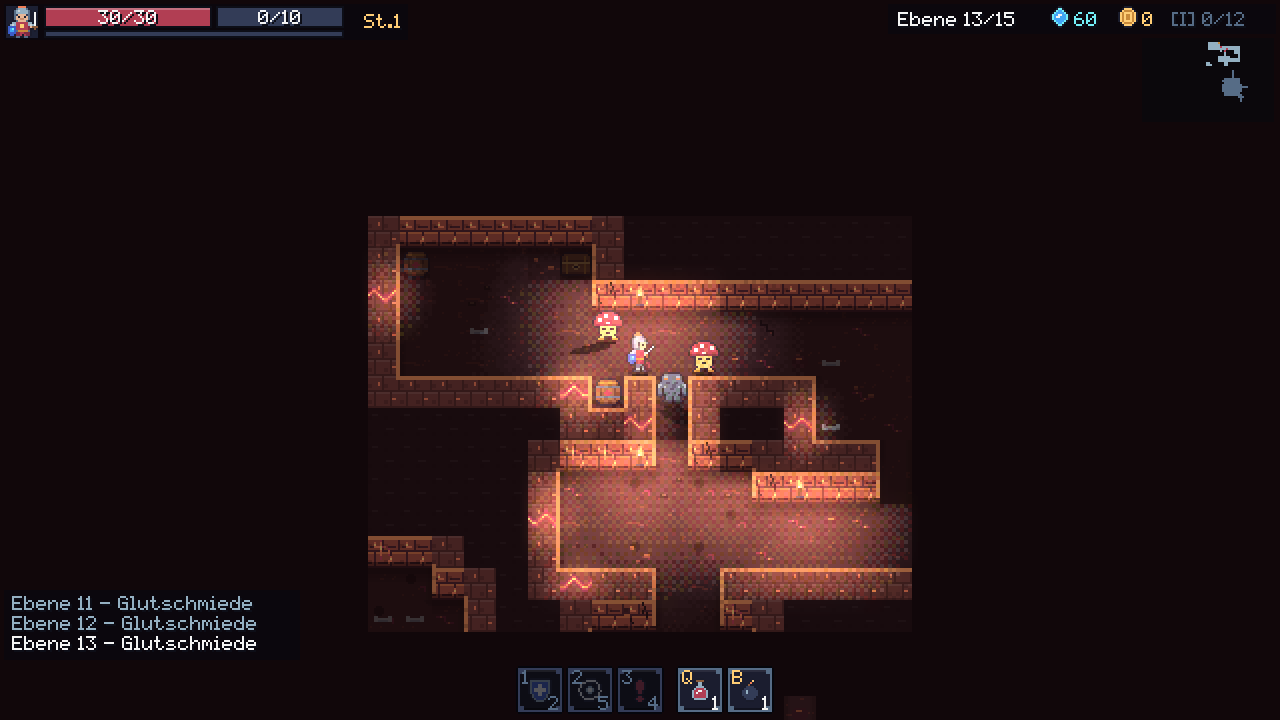
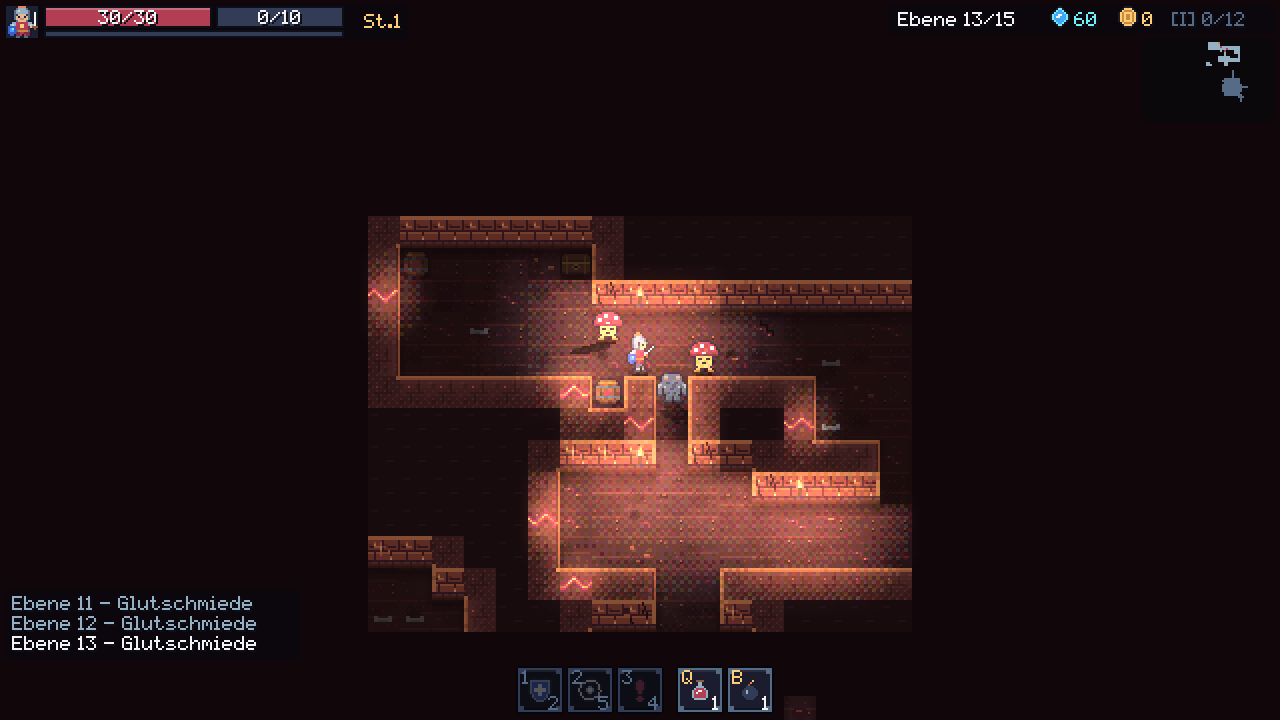
Texturen: Bodenmuster über 2×2 Felder, Mauerkronen nach Nachbarn, Sockel, weiche Übergänge
- src/render/tiles.ts: Boden je Biom als 32×32-Muster (Gruft Steinplatten, Höhle
  unebener Fels mit Kieseln, Schmiede große Eisenplatten mit Nieten, Ruß, Rost),
  dazu eine weiche Helligkeitswelle über 4×4 Felder
- Mauerkrone ohne Ziegelgitter: Glanzkante nur zu offenen Seiten, zur Mitte dunkler;
  Seitenwände lesen sich nicht mehr wie Frontmauerwerk
- Wandfront mit Sockel (Fuge, dunkle Sockelsteine)
- Eis, Brandfläche und Moosgrund unter Gras laufen gerastert in den Boden aus

Claude-Session: https://claude.ai/code/session_01TMNu2fsQ35aYg53JpeGmq3

diff --git a/src/render/tiles.ts b/src/render/tiles.ts
@@ -1,0 +1,176 @@
+// Phase 3: Bodenmuster über 2×2 Felder, Mauerkronen nach Nachbarmuster, Sockel der Wandfront,
+// gerasterte Übergänge (Gras, Brandfläche, Eis). Alles im Code gezeichnet, nur Palettenfarben.
+const TS = 16;
+const mk = (w: number, h: number): [HTMLCanvasElement, CanvasRenderingContext2D] => {
+  const c = document.createElement('canvas'); c.width = w; c.height = h; return [c, c.getContext('2d')!];
+};
+export interface BiomeCols { floor: string; speck: string; brick: string; hi: string; mortar: string; top: string; cap: string; capHi: string; g1: string; g2: string; }
+
+const BAYER = [0, 8, 2, 10, 12, 4, 14, 6, 3, 11, 1, 9, 15, 7, 13, 5].map(v => (v + 0.5) / 16);
+const px = (g: CanvasRenderingContext2D, col: string, x: number, y: number, w = 1, h = 1) => { g.fillStyle = col; g.fillRect(x, y, w, h); };
+
+// ---- Boden: 32×32-Muster, in vier Felder geschnitten ----
+// Rückgabe: je Spielart vier Viertel [oben-links, oben-rechts, unten-links, unten-rechts]
+export function floorMacro(b: BiomeCols, bi: number, rnd: () => number): HTMLCanvasElement[][] {
+  const out: HTMLCanvasElement[][] = [];
+  for (let v = 0; v < 3; v++) {
+    const [c, g] = mk(32, 32);
+    px(g, b.floor, 0, 0, 32, 32);
+    if (bi === 0) gruftFloor(g, b, v, rnd);
+    else if (bi === 1) caveFloor(g, b, rnd);
+    else forgeFloor(g, b, v, rnd);
+    const parts: HTMLCanvasElement[] = [];
+    for (const [qx, qy] of [[0, 0], [16, 0], [0, 16], [16, 16]]) { const [q, qg] = mk(TS, TS); qg.drawImage(c, -qx, -qy); parts.push(q); }
+    out.push(parts);
+  }
+  return out;
+}
+
+// Gruft: Steinplatten unterschiedlicher Größe mit Fugen, leicht verschieden getönt
+const SLABS = [
+  [[0, 0, 12, 10], [12, 0, 20, 10], [0, 10, 20, 12], [20, 10, 12, 12], [0, 22, 10, 10], [10, 22, 22, 10]],
+  [[0, 0, 16, 16], [16, 0, 16, 8], [16, 8, 16, 8], [0, 16, 8, 16], [8, 16, 24, 16]],
+  [[0, 0, 10, 14], [10, 0, 22, 6], [10, 6, 12, 8], [22, 6, 10, 8], [0, 14, 16, 18], [16, 14, 16, 18]],
+];
+function gruftFloor(g: CanvasRenderingContext2D, b: BiomeCols, v: number, rnd: () => number) {
+  for (const [x, y, w, h] of SLABS[v]) {
+    const t = rnd();
+    g.fillStyle = t < 0.33 ? 'rgba(0,0,0,0.10)' : t < 0.66 ? 'rgba(255,255,255,0.03)' : 'rgba(0,0,0,0.03)';
+    g.fillRect(x, y, w, h);
+    px(g, b.speck, x, y, w - 1, 1); // Glanzkante oben
+    for (let k = 0; k < (w * h) / 40; k++) px(g, b.speck, x + 1 + ((rnd() * (w - 3)) | 0), y + 2 + ((rnd() * (h - 4)) | 0));
+    px(g, b.mortar, x + w - 1, y, 1, h); px(g, b.mortar, x, y + h - 1, w, 1); // Fugen rechts und unten
+    if (rnd() < 0.3) { const cx = x + 2 + ((rnd() * (w - 5)) | 0), cy = y + 2 + ((rnd() * (h - 5)) | 0); px(g, b.mortar, cx, cy, 2, 1); px(g, b.mortar, cx + 1, cy + 1, 1, 2); }
+  }
+}
+
+// Höhle: unebener Fels – weiche Flecken aus Wertrauschen, Kiesel, feine Risse
+function caveFloor(g: CanvasRenderingContext2D, b: BiomeCols, rnd: () => number) {
+  const N = 5, grid = Array.from({ length: N * N }, () => rnd());
+  const at = (i: number, j: number) => grid[(j % (N - 1)) * N + (i % (N - 1))]; // nahtlos kachelbar
+  for (let y = 0; y < 32; y++) for (let x = 0; x < 32; x++) {
+    const fx = (x / 32) * (N - 1), fy = (y / 32) * (N - 1), i = Math.floor(fx), j = Math.floor(fy), u = fx - i, w = fy - j;
+    const n = at(i, j) * (1 - u) * (1 - w) + at(i + 1, j) * u * (1 - w) + at(i, j + 1) * (1 - u) * w + at(i + 1, j + 1) * u * w;
+    const d = n + (BAYER[(y & 3) * 4 + (x & 3)] - 0.5) * 0.2;
+    if (d < 0.3) px(g, b.mortar, x, y); else if (d > 0.72) px(g, b.speck, x, y);
+  }
+  for (let k = 0; k < 6; k++) { const x = (rnd() * 30) | 0, y = (rnd() * 30) | 0; px(g, b.brick, x, y, 2, 1); px(g, b.hi, x, y); px(g, b.mortar, x, y + 1, 2, 1); }
+  for (let k = 0; k < 1; k++) { let x = (rnd() * 28) | 0, y = (rnd() * 28) | 0; for (let s = 0; s < 5; s++) { px(g, b.top, x, y); x += rnd() < 0.5 ? 1 : 0; y += 1; } }
+}
+
+// Schmiede: große Eisen- und Steinplatten (Grundrisse wie in der Gruft), Nieten nur an großen Platten, Ruß und Rost
+function forgeFloor(g: CanvasRenderingContext2D, b: BiomeCols, v: number, rnd: () => number) {
+  for (const [x, y, w, h] of SLABS[(v + 1) % SLABS.length]) {
+    if (rnd() < 0.45) { g.fillStyle = 'rgba(0,0,0,0.10)'; g.fillRect(x, y, w, h); }
+    px(g, b.speck, x, y, w - 1, 1);
+    px(g, b.mortar, x + w - 1, y, 1, h); px(g, b.mortar, x, y + h - 1, w, 1);
+    if (w >= 12 && h >= 10 && rnd() < 0.6) for (const [rx, ry] of [[2, 2], [w - 4, 2], [2, h - 4], [w - 4, h - 4]]) { px(g, b.hi, x + rx, y + ry); px(g, '#1c0f14', x + rx, y + ry + 1); }
+    for (let k = 0; k < (w * h) / 60; k++) px(g, '#7d2b45', x + 1 + ((rnd() * (w - 3)) | 0), y + 2 + ((rnd() * (h - 4)) | 0));
+  }
+  // Rußfleck über die Plattengrenzen hinweg
+  const cx = 6 + ((rnd() * 20) | 0), cy = 6 + ((rnd() * 20) | 0);
+  for (let y = -5; y <= 5; y++) for (let x = -6; x <= 6; x++) {
+    const d = (x * x) / 36 + (y * y) / 25;
+    if (d < 1 && BAYER[((cy + y) & 3) * 4 + ((cx + x) & 3)] > d * 0.9) { g.fillStyle = 'rgba(28,15,20,0.5)'; g.fillRect((cx + x + 32) % 32, (cy + y + 32) % 32, 1, 1); }
+  }
+}
+
+// Großflächige Helligkeitswelle über den Boden: Wert in [-1, 1], weich über 4×4 Felder
+const h2 = (x: number, y: number) => (((Math.imul(x, 374761393) ^ Math.imul(y, 668265263)) >>> 0) % 1000) / 500 - 1;
+export function floorTint(x: number, y: number): number {
+  const fx = x / 4, fy = y / 4, i = Math.floor(fx), j = Math.floor(fy), u = fx - i, v = fy - j;
+  const s = (t: number) => t * t * (3 - 2 * t), su = s(u), sv = s(v);
+  return (h2(i, j) * (1 - su) + h2(i + 1, j) * su) * (1 - sv) + (h2(i, j + 1) * (1 - su) + h2(i + 1, j + 1) * su) * sv;
+}
+
+// ---- Mauerkrone nach offenen Seiten (Bit 1 oben, 2 links, 4 rechts) ----
+// Kante mit Glanz nur dort, wo Boden angrenzt; zur Mitte hin dunkler, wie eine gerundete Masse
+export function capEdges(b: BiomeCols): HTMLCanvasElement[] {
+  const out: HTMLCanvasElement[] = [];
+  for (let bits = 0; bits < 8; bits++) {
+    const [c, g] = mk(TS, TS);
+    if (bits & 1) { px(g, b.capHi, 0, 0, TS, 1); px(g, b.hi, 0, 1, TS, 1); }
+    if (bits & 2) { px(g, b.capHi, 0, 0, 1, TS); px(g, b.hi, 1, bits & 1 ? 1 : 0, 1, TS); }
+    if (bits & 4) { px(g, b.hi, TS - 1, 0, 1, TS); px(g, 'rgba(0,0,0,0.25)', TS - 2, bits & 1 ? 2 : 0, 1, TS); }
+    out.push(c);
+  }
+  return out;
+}
+export function capTiles(b: BiomeCols, base: HTMLCanvasElement, edges: HTMLCanvasElement[]): HTMLCanvasElement[] {
+  return edges.map((e, bits) => {
+    const [c, g] = mk(TS, TS);
+    g.drawImage(base, 0, 0);
+    // Abstand zur nächsten offenen Kante bestimmt die Abdunklung
+    for (let y = 0; y < TS; y++) for (let x = 0; x < TS; x++) {
+      let d = 99;
+      if (bits & 1) d = Math.min(d, y);
+      if (bits & 2) d = Math.min(d, x);
+      if (bits & 4) d = Math.min(d, TS - 1 - x);
+      const a = d > 9 ? 0.3 : d > 5 ? 0.18 : d > 3 ? 0.08 : 0;
+      if (a && BAYER[(y & 3) * 4 + (x & 3)] < 0.85) { g.fillStyle = `rgba(0,0,0,${a})`; g.fillRect(x, y, 1, 1); }
+    }
+    g.drawImage(e, 0, 0);
+    return c;
+  });
+}
+// ruhigere Oberfläche der Mauerkrone (ohne Ziegelgitter, das wie Frontmauerwerk wirkt)
+export function capBase(b: BiomeCols, bi: number, rnd: () => number): HTMLCanvasElement {
+  const [c, g] = mk(TS, TS);
+  px(g, b.cap, 0, 0, TS, TS);
+  g.fillStyle = 'rgba(0,0,0,0.22)';
+  if (bi === 1) for (let i = 0; i < 7; i++) g.fillRect((rnd() * 13) | 0, (rnd() * 14) | 0, 2 + ((rnd() * 2) | 0), 1 + ((rnd() * 2) | 0));
+  else { g.fillRect(3, 8, 9, 1); g.fillRect(9, 2, 1, 6); g.fillRect(5, 9, 1, 5); }
+  g.fillStyle = 'rgba(255,255,255,0.08)';
+  for (let i = 0; i < 5; i++) g.fillRect((rnd() * 15) | 0, (rnd() * 15) | 0, 1 + ((rnd() * 2) | 0), 1);
+  if (bi === 2) { px(g, '#7d2b45', 4, 4, 1, 3); px(g, '#ef7d57', 4, 5); px(g, '#7d2b45', 12, 11, 2, 1); }
+  return c;
+}
+
+// ---- Sockel der Wandfront: Fuge, dunklere Sockelsteine, Übergang zum Boden ----
+export function plinth(g: CanvasRenderingContext2D, b: BiomeCols) {
+  px(g, b.mortar, 0, 12, TS, 1);
+  px(g, b.brick, 0, 13, TS, 3);
+  g.fillStyle = 'rgba(0,0,0,0.45)'; g.fillRect(0, 13, TS, 3);
+  g.fillStyle = 'rgba(255,255,255,0.12)'; g.fillRect(0, 13, TS, 1);
+  px(g, b.mortar, 5, 13, 1, 3); px(g, b.mortar, 12, 13, 1, 3);
+  g.fillStyle = 'rgba(0,0,0,0.25)'; g.fillRect(0, 15, TS, 1);
+}
+
+// ---- gerasterte Ränder: Maske je offene Seite (1 oben, 2 links, 4 rechts, 8 unten) ----
+const masks: HTMLCanvasElement[] = [];
+export function edgeMask(bits: number): HTMLCanvasElement {
+  if (masks[bits]) return masks[bits];
+  const [c, g] = mk(TS, TS);
+  g.fillStyle = '#fff';
+  for (let y = 0; y < TS; y++) for (let x = 0; x < TS; x++) {
+    let d = 99;
+    if (bits & 1) d = Math.min(d, y);
+    if (bits & 2) d = Math.min(d, x);
+    if (bits & 4) d = Math.min(d, TS - 1 - x);
+    if (bits & 8) d = Math.min(d, TS - 1 - y);
+    if (d >= 4 || BAYER[(y & 3) * 4 + (x & 3)] < (d + 0.5) / 4.5) g.fillRect(x, y, 1, 1);
+  }
+  return (masks[bits] = c);
+}
+// Bild mit gerasterten Rändern (zwischengespeichert je Bild und Muster)
+const soft = new WeakMap<HTMLCanvasElement, HTMLCanvasElement[]>();
+export function softEdged(src: HTMLCanvasElement, bits: number): HTMLCanvasElement {
+  if (!bits) return src;
+  let list = soft.get(src);
+  if (!list) soft.set(src, (list = []));
+  if (list[bits]) return list[bits];
+  const [c, g] = mk(TS, TS);
+  g.drawImage(src, 0, 0);
+  g.globalCompositeOperation = 'destination-in';
+  g.drawImage(edgeMask(bits), 0, 0);
+  return (list[bits] = c);
+}
+// Moosgrund unter dem Gras (damit die Fläche als Rasen liest, nicht als einzelne Halme)
+export function grassBed(b: BiomeCols): HTMLCanvasElement {
+  const [c, g] = mk(TS, TS);
+  // unregelmäßige Moosflecken statt Gitterraster
+  g.globalAlpha = 0.55;
+  for (let y = 0; y < TS; y++) for (let x = 0; x < TS; x++) { const h = ((Math.imul(x + 3, 2654435761) ^ Math.imul(y + 7, 40503)) >>> 0) % 100; if (h < 22) px(g, b.g1, x, y); }
+  g.globalAlpha = 1;
+  return c;
+}

diff --git a/src/render/draw.ts b/src/render/draw.ts
@@ -6,6 +6,7 @@ import { onDeath, drawDecals, drawDying, resetDeaths, reducedFx } from './deaths
 import { drawItemIcon, drawIcon, PERK_ICON } from './icons';
 import { Light, applyLight, AMBIENTS } from './light';
 import { dropShadow, drawAO, castFrom, castShadow, beginShadows, flushShadows } from './shade';
+import { floorTint, softEdged } from './tiles';
 import { sfx } from '../core/audio';
 import { tr } from '../core/i18n';
 import { Run, Actor, xpNeed, skillCost, skillReady, spellAt, itemText, itemValue, itemScore, perkInfo, skillModName, shotRange, RANKS, SORT_NAMES, BAG_MAX, RUNE_NAMES, availableNodes } from '../game/run';
@@ -196,35 +197,40 @@ export function drawRun(ctx: CanvasRenderingContext2D, run: Run, dt: number, tim
       if (front) { const hv = hash(x, y, 101) % 7; ctx.drawImage(ts.walls[hv < 5 ? 0 : hv - 4], dx, dy); }
       else {
         const c = [open(-1, -1), open(1, -1), open(-1, 1), open(1, 1)];
-        const inner = !(l || r || u || c.some(Boolean));
+        const bits = (u ? 1 : 0) | (l ? 2 : 0) | (r ? 4 : 0), inner = !(bits || c.some(Boolean));
         // Glutschmiede: in der Mauerkrone fließt hier und da Lava (vier Bilder, Phase je Feld versetzt)
         if (!inner && ts.lava.length && hash(x, y, 202) % 5 === 0) {
           ctx.drawImage(ts.lava[(Math.floor(time * 5) + x) % 4], dx, dy);
+          ctx.drawImage(ts.capEdge[bits], dx, dy);
           lights.push({ x, y, r: 1.8 * flick(i), col: '#ef7d57', a: 0.6 });
-        } else ctx.drawImage(inner ? ts.top : ts.cap, dx, dy);
+        } else ctx.drawImage(inner ? ts.top : ts.caps[bits], dx, dy); // Kanten nur zu offenen Seiten, Mitte dunkler
         ctx.fillStyle = ts.hi;
-        if (u) ctx.fillRect(dx, dy, TS, 2);
         if (c[0] && !l && !u) ctx.fillRect(dx, dy, 2, 2);
         if (c[1] && !r && !u) ctx.fillRect(dx + TS - 2, dy, 2, 2);
         if (c[2] && !l) ctx.fillRect(dx, dy + TS - 2, 2, 2);
         if (c[3] && !r) ctx.fillRect(dx + TS - 2, dy + TS - 2, 2, 2);
       }
-      // helle Kante zur offenen Seite: der Raumumriss ist rundum lesbar
-      ctx.fillStyle = ts.hi;
-      if (l) ctx.fillRect(dx, dy, 2, front ? 13 : TS);
-      if (r) ctx.fillRect(dx + TS - 2, dy, 2, front ? 13 : TS);
+      // Wandfront: helle Kante zur offenen Seite, der Raumumriss bleibt rundum lesbar
+      if (front) { ctx.fillStyle = ts.hi; if (l) ctx.fillRect(dx, dy, 2, 12); if (r) ctx.fillRect(dx + TS - 2, dy, 2, 12); }
       if (t === T.CRACKED) ctx.drawImage(sprites[(run.cracks.get(i) ?? 0) >= 2 ? 'crack2' : 'crack'], dx, dy);
       if (front && torches.has(i)) {
         ctx.drawImage(sprites[`torch${Math.floor(time * 7 + x) % 2}`], dx, dy);
         lights.push({ x, y: y + 0.6, r: 5 * flick(i), col: '#ef7d57' });
       }
     } else {
-      const hf = hash(x, y, 303);
-      ctx.drawImage(t === T.ICE ? sprites.ice : hf % 6 === 0 ? ts.floorX[(hf >>> 4) % ts.floorX.length] : ts.floor[(x * 7 + y * 13 + ((x * y) % 5)) % 4], dx, dy);
+      // Boden: Muster über 2×2 Felder, selten eine Sonderplatte; dazu eine weiche Helligkeitswelle
+      const hf = hash(x, y, 303), bio = biomeOf(run.floor);
+      ctx.drawImage(bio && hf % 9 === 0 ? ts.floorX[(hf >>> 4) % ts.floorX.length] : ts.floorM[hash(x >> 1, y >> 1, 404) % ts.floorM.length][(y & 1) * 2 + (x & 1)], dx, dy);
+      const tv = floorTint(x, y);
+      ctx.fillStyle = tv > 0 ? `rgba(255,255,255,${(tv * 0.045).toFixed(3)})` : `rgba(0,0,0,${(-tv * 0.11).toFixed(3)})`; ctx.fillRect(dx, dy, TS, TS);
+      // Ränder von Eis, Rasen und Brandfläche laufen gerastert in den Boden aus
+      const edge = (k: number) => { let e = 0; [[0, -1, 1], [-1, 0, 2], [1, 0, 4], [0, 1, 8]].forEach(([ex, ey, bit]) => { const n = run.tiles[i + ey * W + ex]; if (n !== k && !wallLike(n)) e |= bit; }); return e; };
+      if (t === T.ICE) ctx.drawImage(softEdged(sprites.ice, edge(T.ICE)), dx, dy);
+      if (t === T.GRASS) ctx.drawImage(softEdged(ts.bed, edge(T.GRASS)), dx, dy);
       drawAO(ctx, run.tiles, x, y, dx, dy);
       if (t === T.FLOOR) { const h = hash(x, y, run.seed + run.floor * 7); if (h % 9 === 0) ctx.drawImage(ts.decals[(h >>> 8) % ts.decals.length], dx, dy); }
       if (t === T.GRASS) ctx.drawImage(ts.grass[(x * 5 + y * 3) % 3], dx, dy);
-      else if (t === T.BURNT) ctx.drawImage(ts.burnt, dx, dy);
+      else if (t === T.BURNT) ctx.drawImage(softEdged(ts.burnt, edge(T.BURNT)), dx, dy);
       floorTiles.push(i);
     }
   }

diff --git a/src/render/gfx.ts b/src/render/gfx.ts
@@ -4,6 +4,7 @@ export const VW = 640, VH = 360, TS = 16;
 import { PAL, SPR, ACTORS, NO_OUTLINE, VIEWS, FLOATERS, WEAPON_ART, WeaponArt, DECALS } from './sprites';
 import { tr } from '../core/i18n';
 import { poseFrames } from './poses';
+import { floorMacro, capBase, capEdges, capTiles, plinth, grassBed } from './tiles';
 export { PAL };
 
 export const sprites: Record<string, HTMLCanvasElement> = {};
@@ -20,7 +21,12 @@ export function hex(col: string): [number, number, number] {
   return [n >> 16, (n >> 8) & 255, n & 255];
 }
 
-export interface TileSet { floor: HTMLCanvasElement[]; floorX: HTMLCanvasElement[]; walls: HTMLCanvasElement[]; lava: HTMLCanvasElement[]; wall: HTMLCanvasElement; top: HTMLCanvasElement; cap: HTMLCanvasElement; hi: string; grass: HTMLCanvasElement[]; burnt: HTMLCanvasElement; decals: HTMLCanvasElement[]; }
+export interface TileSet {
+  floor: HTMLCanvasElement[]; floorX: HTMLCanvasElement[]; walls: HTMLCanvasElement[]; lava: HTMLCanvasElement[]; wall: HTMLCanvasElement; top: HTMLCanvasElement; cap: HTMLCanvasElement; hi: string; grass: HTMLCanvasElement[]; burnt: HTMLCanvasElement; decals: HTMLCanvasElement[];
+  floorM: HTMLCanvasElement[][]; // Bodenmuster 2×2: Spielart → vier Viertel
+  caps: HTMLCanvasElement[]; capEdge: HTMLCanvasElement[]; // Mauerkrone und ihre Kanten je offene Seiten (Bit 1 oben, 2 links, 4 rechts)
+  bed: HTMLCanvasElement; // Moosgrund unter Gras
+}
 export const tilesets: TileSet[] = [];
 
 const BIOMES = [
@@ -175,17 +181,9 @@ export function bake(): void {
       wg.fillStyle = '#ffcd75'; wg.fillRect(3, 4, 1, 1); wg.fillRect(11, 11, 1, 1);
     }
     if (bi !== 1) { wg.fillStyle = b.capHi; wg.fillRect(0, 0, TS, 2); }
-    wg.fillStyle = 'rgba(0,0,0,0.4)'; wg.fillRect(0, 13, TS, 3);
-    // Mauerkrone: von oben gesehene Wand, deutlich heller als das Dunkel dahinter
-    const [cap, cg] = mk(TS, TS);
-    cg.fillStyle = b.cap; cg.fillRect(0, 0, TS, TS);
-    cg.fillStyle = 'rgba(0,0,0,0.28)';
-    if (bi === 1) { for (let i = 0; i < 7; i++) cg.fillRect((rnd() * 13) | 0, (rnd() * 14) | 0, 2 + ((rnd() * 2) | 0), 1 + ((rnd() * 2) | 0)); }
-    else { cg.fillRect(0, 7, TS, 1); cg.fillRect(0, 15, TS, 1); cg.fillRect(7, 0, 1, 7); cg.fillRect(3, 8, 1, 7); cg.fillRect(11, 8, 1, 7); cg.fillRect(15, 0, 1, 7); }
-    cg.fillStyle = 'rgba(255,255,255,0.10)';
-    if (bi === 1) { cg.fillRect(2, 2, 3, 1); cg.fillRect(9, 6, 3, 1); cg.fillRect(4, 11, 2, 1); }
-    else { cg.fillRect(0, 0, 7, 1); cg.fillRect(8, 0, 7, 1); cg.fillRect(4, 8, 7, 1); cg.fillRect(12, 8, 4, 1); cg.fillRect(0, 8, 3, 1); }
-    if (bi === 2) { cg.fillStyle = '#ef7d57'; cg.fillRect(5, 3, 1, 2); cg.fillRect(12, 11, 2, 1); }
+    plinth(wg, b);
+    // Mauerkrone: von oben gesehene Wand, ruhige Fläche; Kanten je nach offenen Seiten (tiles.ts)
+    const cap = capBase(b, bi, rnd), capEdge = capEdges(b), caps = capTiles(b, cap, capEdge);
     // Felsinneres ohne angrenzenden Boden
     const [top, tg] = mk(TS, TS);
     tg.fillStyle = b.top; tg.fillRect(0, 0, TS, TS);
@@ -253,7 +251,7 @@ export function bake(): void {
       g.fillStyle = '#ffcd75'; g.fillRect((f * 4 + 2) % TS, 7 + Math.round(Math.sin(((f * 4 + 2) % TS + f * 2) * 0.55) * 2), 2, 1);
       lava.push(c);
     }
-    tilesets.push({ floor, floorX, walls, lava, wall, top, cap, hi: b.capHi, grass, burnt, decals });
+    tilesets.push({ floor, floorX, walls, lava, wall, top, cap, hi: b.capHi, grass, burnt, decals, floorM: floorMacro(b, bi, rnd), caps, capEdge, bed: grassBed(b) });
   }
 }
 
